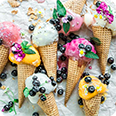
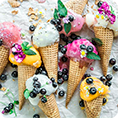
gallery

diff --git a/src/sass/layout/_gallery.scss b/src/sass/layout/_gallery.scss
@@ -14,66 +14,46 @@
 }
 
 .grid {
-  max-height: 430px;
-  max-width: 1200px;
+  max-height: 115px;
+  max-width: 275px;
+  margin-left: auto;
+  margin-right: auto;
+
+  @include min-media($mobile) {
+    max-height: 185px;
+    max-width: 436px;
+  }
+
+  @include min-media($tablet) {
+    max-height: 265px;
+    max-width: 620px;
+  }
+
+  @include min-media($desktop) {
+    max-height: 425px;
+    max-width: 1000px;
+  }
 }
 
 .grid-items {
   display: grid;
   grid-template-columns: repeat(7, minmax(35px, 35px));
   grid-template-rows: repeat(3, minmax(35px, 35px));
-  gap: 5px;
-
-  @include media-span(320px, $mobile) {
-    padding-left: 1vh;
-  }
-  @include media-span(330px, $mobile) {
-    padding-left: 2vh;
-  }
-  @include media-span(340px, $mobile) {
-    padding-left: 3vh;
-  }
-  @include media-span(350px, $mobile) {
-    padding-left: 4vh;
-  }
-  @include media-span(360px, $mobile) {
-    padding-left: 5vh;
-  }
-  @include media-span(370px, $mobile) {
-    padding-left: 6vh;
-  }
-  @include media-span(380px, $mobile) {
-    padding-left: 7vh;
-  }
-  @include media-span(390px, $mobile) {
-    padding-left: 8vh;
-  }
-  @include media-span(400px, $mobile) {
-    padding-left: 9vh;
-  }
-  @include media-span(410px, $mobile) {
-    padding-left: 10vh;
-  }
-  @include media-span(430px, $mobile) {
-    padding-left: 11vh;
-  }
-  @include media-span(460px, $mobile) {
-    padding-left: 12vh;
-  }
+  gap: 0px 5px;
 
   @include min-media($mobile) {
-    grid-template-columns: repeat(7, minmax(35px, 33.33333%));
-    grid-template-rows: repeat(3, minmax(35px, 58px));
+    grid-template-columns: repeat(7, minmax(58px, 58px));
+    grid-template-rows: repeat(3, minmax(58px, 58px));
   }
 
   @include min-media($tablet) {
-    grid-template-columns: repeat(7, minmax(95px, 33.33333%));
-    grid-template-rows: repeat(3, minmax(50px, 95px));
+    grid-template-columns: repeat(7, minmax(84px, 84px));
+    grid-template-rows: repeat(3, minmax(84px, 84px));
   }
 
   @include min-media($desktop) {
-    grid-template-columns: repeat(7, minmax(50px, 33.33333%));
-    grid-template-rows: repeat(3, minmax(50px, 137px));
+    grid-template-columns: repeat(7, minmax(138px, 138px));
+    grid-template-rows: repeat(3, minmax(138px, 138px));
   }
 }
 
@@ -87,12 +67,12 @@
   &-2 {
     grid-column: 2/3;
     grid-row: 1/2;
-    top: 20px;
+    top: 18px;
   }
   &-3 {
     grid-column: 2/3;
     grid-row: 3/4;
-    top: -20px;
+    top: -12px;
   }
   &-4 {
     grid-column: 3/5;
@@ -101,6 +81,7 @@
   &-5 {
     grid-column: 3/4;
     grid-row: 3/4;
+    top: 10px;
   }
   &-6 {
     grid-column: 5/6;
@@ -110,7 +91,7 @@
   &-7 {
     grid-column: 5/6;
     grid-row: 3/4;
-    top: -16px;
+    top: -6px;
   }
   &-8 {
     grid-column: 6/7;
@@ -120,7 +101,7 @@
   &-9 {
     grid-column: 6/7;
     grid-row: 3/4;
-    top: -28px;
+    top: -18px;
   }
   &-10 {
     grid-column: 7/8;
@@ -135,12 +116,12 @@
     &-2 {
       grid-column: 2/3;
       grid-row: 1/2;
-      top: 36px;
+      top: 34px;
     }
     &-3 {
       grid-column: 2/3;
       grid-row: 3/4;
-      top: -27px;
+      top: -19px;
     }
     &-4 {
       grid-column: 3/5;
@@ -149,26 +130,27 @@
     &-5 {
       grid-column: 3/4;
       grid-row: 3/4;
+      top: 7px;
     }
     &-6 {
       grid-column: 5/6;
       grid-row: 1/2;
-      top: 43px;
+      top: 38px;
     }
     &-7 {
       grid-column: 5/6;
       grid-row: 3/4;
-      top: -20px;
+      top: -15px;
     }
     &-8 {
       grid-column: 6/7;
       grid-row: 1/2;
-      top: 23px;
+      top: 19px;
     }
     &-9 {
       grid-column: 6/7;
       grid-row: 3/4;
-      top: -40px;
+      top: -34px;
     }
     &-10 {
       grid-column: 7/8;
@@ -184,12 +166,12 @@
     &-2 {
       grid-column: 2/3;
       grid-row: 1/2;
-      top: 50px;
+      top: 54px;
     }
     &-3 {
       grid-column: 2/3;
       grid-row: 3/4;
-      top: -50px;
+      top: -25px;
     }
     &-4 {
       grid-column: 3/5;
@@ -198,6 +180,7 @@
     &-5 {
       grid-column: 3/4;
       grid-row: 3/4;
+      top: 10px;
     }
     &-6 {
       grid-column: 5/6;
@@ -207,22 +190,22 @@
     &-7 {
       grid-column: 5/6;
       grid-row: 3/4;
-      top: -40px;
+      top: -19px;
     }
     &-8 {
       grid-column: 6/7;
       grid-row: 1/2;
-      top: 20px;
+      top: 37px;
     }
     &-9 {
       grid-column: 6/7;
       grid-row: 3/4;
-      top: -80px;
+      top: -42px;
     }
     &-10 {
       grid-column: 7/8;
       grid-row: 2/3;
-      top: -15px;
+      top: 0px;
     }
   }
 
@@ -248,7 +231,7 @@
     &-5 {
       grid-column: 3/4;
       grid-row: 3/4;
-      top: 17px;
+      top: 10px;
     }
     &-6 {
       grid-column: 5/6;
@@ -280,7 +263,7 @@
 
 .grid-img {
   position: absolute;
-  width: 100%;
+  // width: 100%;
 
   transition: transform 500ms var(--primary-cubic-bezier);
   // filter: grayscale(0);
